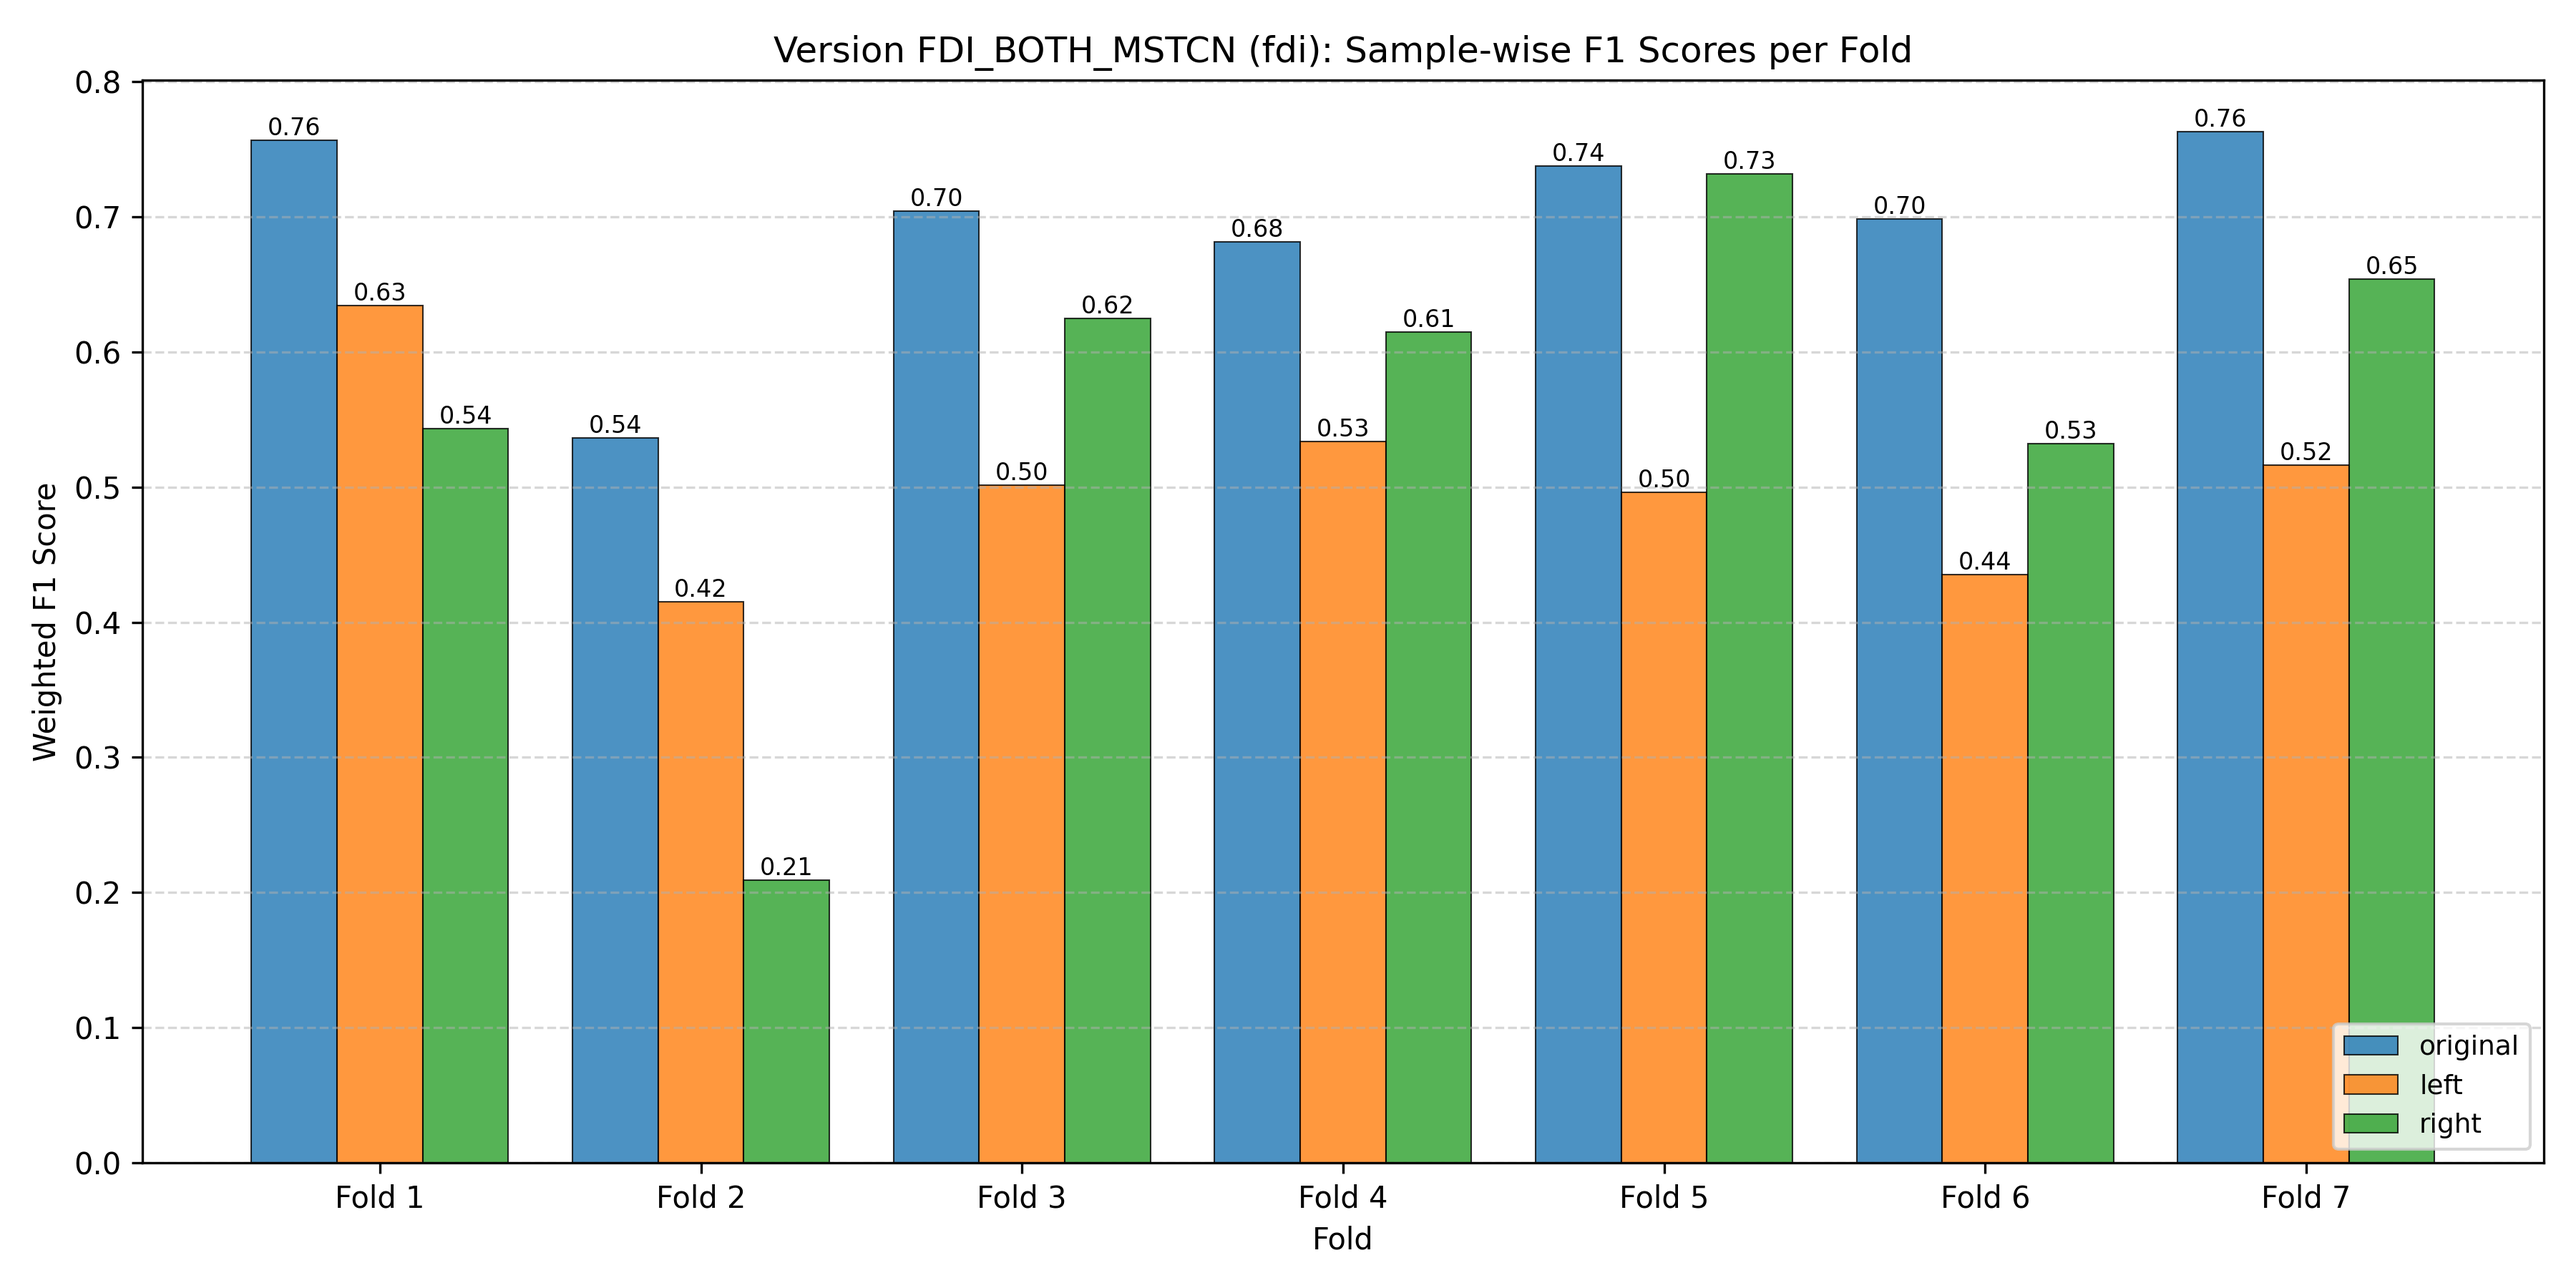
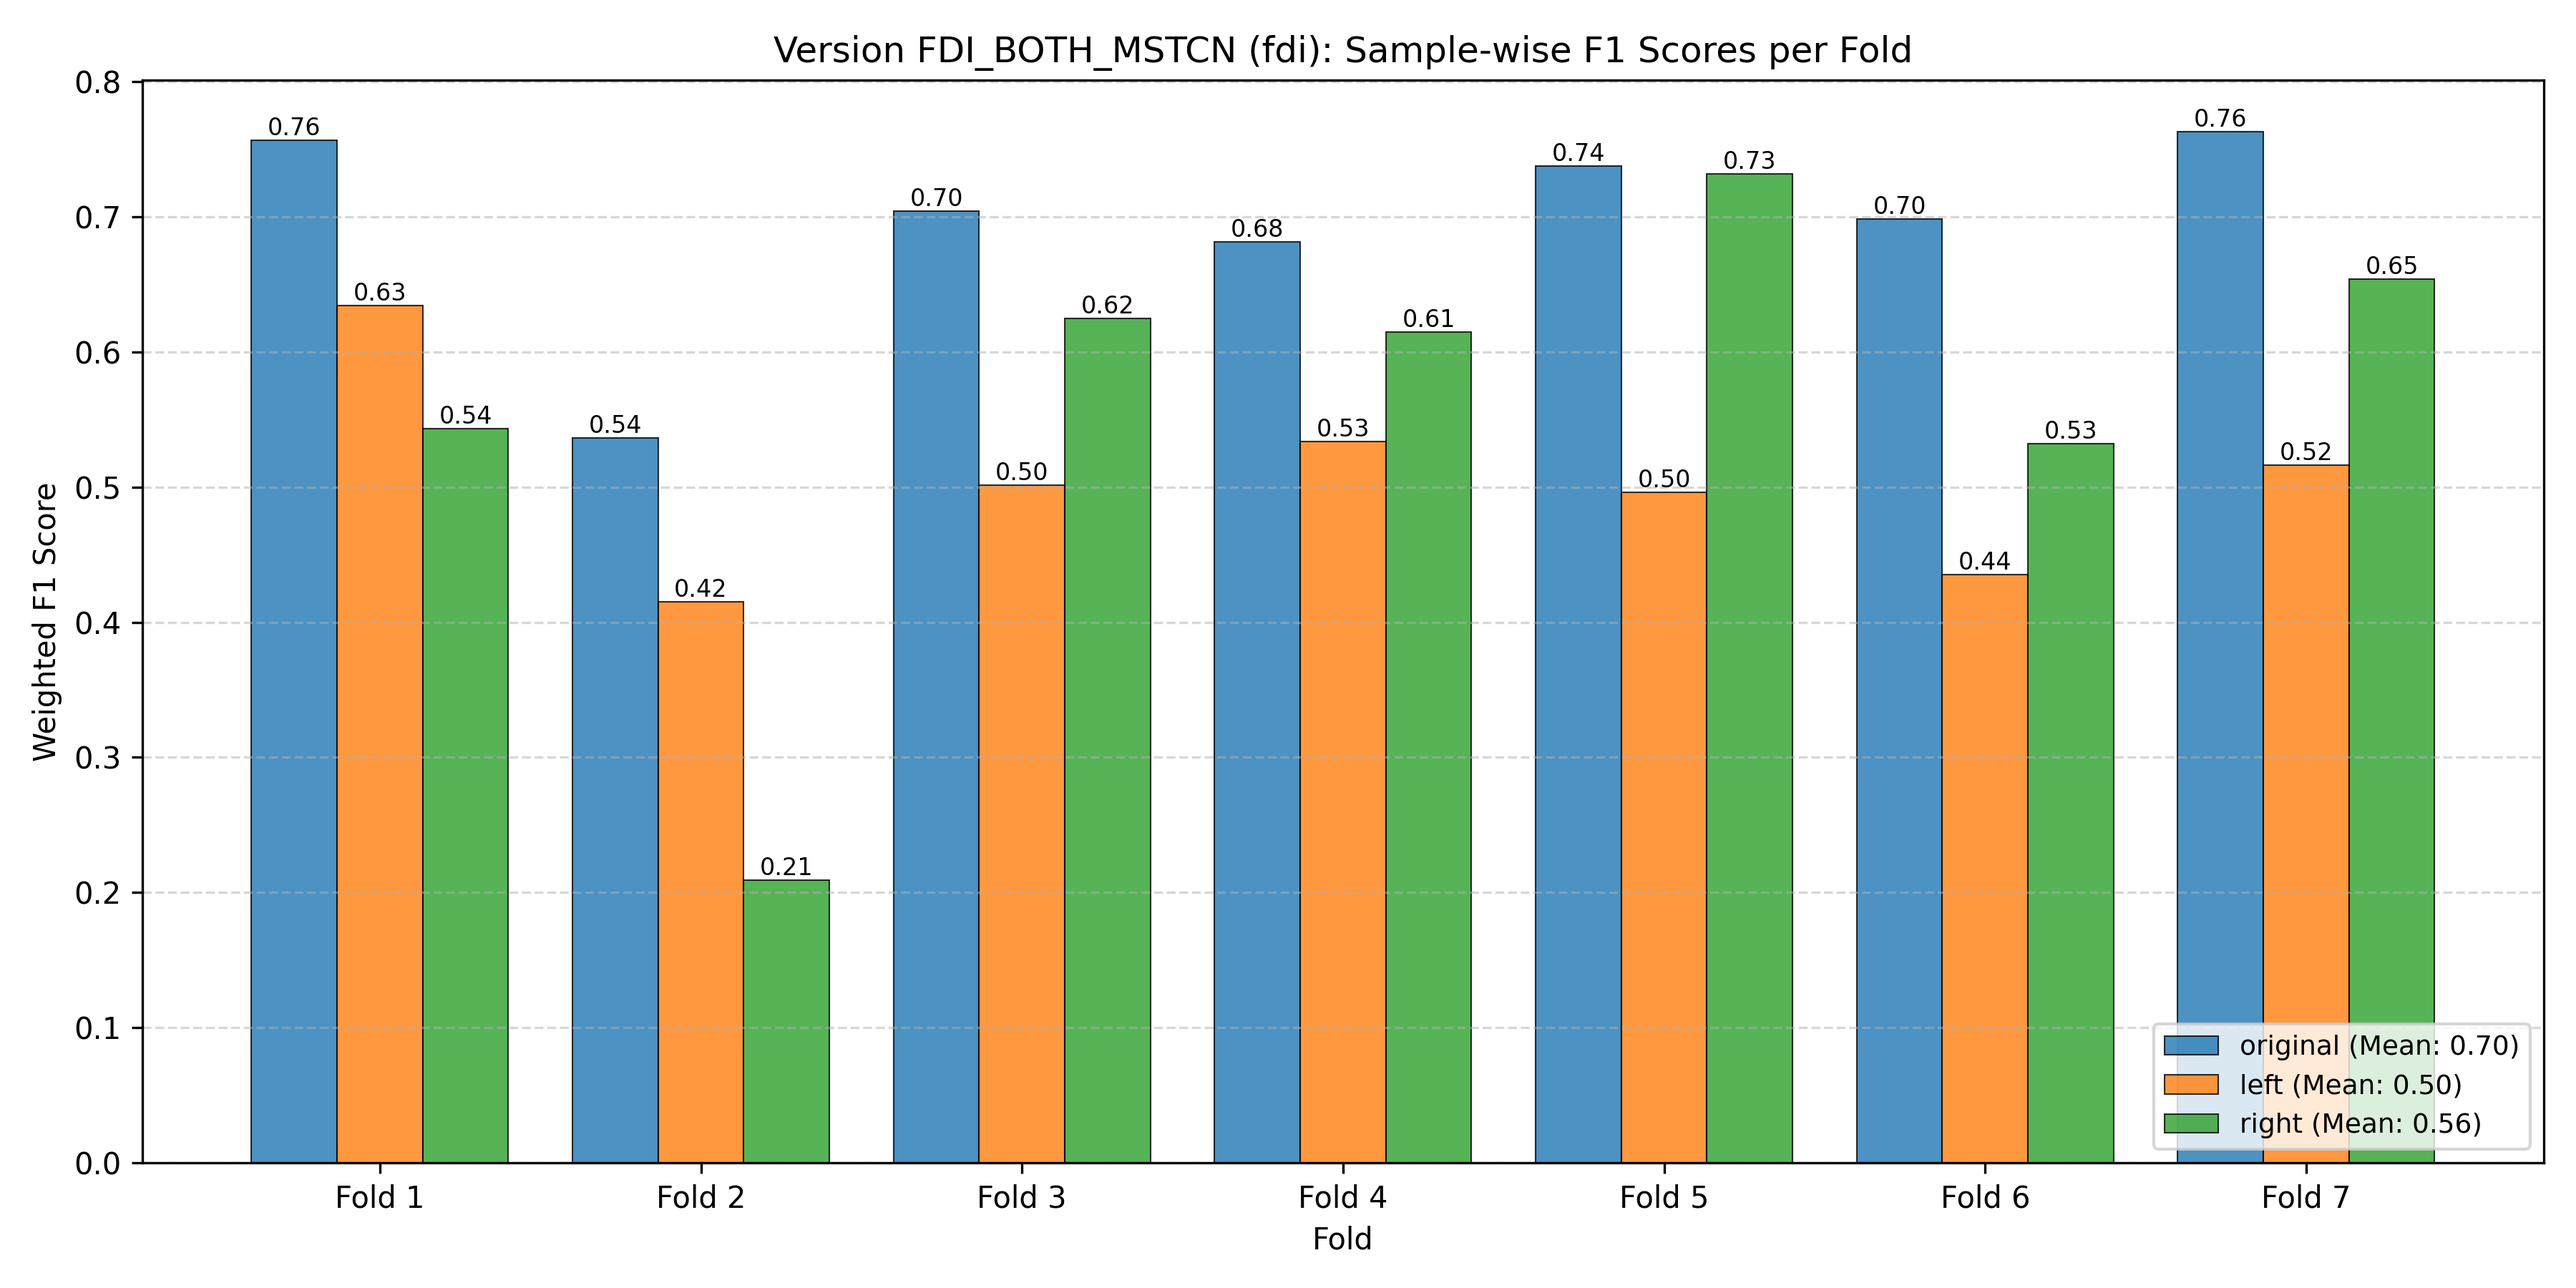
Update

Changed region(s): [[0.84, 0.7778, 0.9644, 0.9022]]

diff --git a/dl_analyze.py b/dl_analyze.py
@@ -6,7 +6,7 @@ IMU Training Result Analysis Script
 -------------------------------------------------------------------------------
 Author      : Joseph Yep
 Email       : yewentai126@gmail.com
-Edited      : 2025-05-05
+Edited      : 2025-05-08
 Description : This script analyzes training results:
               1. Comparative analysis of segment-wise and sample-wise metrics
               2. Support for multiple validation modes (original, mirrored, rotated)
@@ -25,7 +25,10 @@ from seaborn import color_palette
 
 if __name__ == "__main__":
     result_root = "result"
-    versions = ["OREBA_BOTH_MSTCN_1"]  # Uncomment to manually specify versions
+    versions = [
+        "DXI_BOTH_MSTCN",
+        "DXI_BOTH_MSTCN_DATASET_MIRRORING",
+    ]  # Uncomment to manually specify versions
     # versions = [d for d in sorted(os.listdir(result_root)) if os.path.isdir(os.path.join(result_root, d))]
 
     for version in versions:
@@ -182,11 +185,21 @@ if __name__ == "__main__":
             num_folds = len(next(iter(mode_metrics.values()))["sample_wise"])
             folds = np.arange(1, num_folds + 1)
 
+            highest_mean_score = 0  # Initialize variable to track the highest mean score
+
             for i, mode_name in enumerate(mode_names):
                 scores = mode_metrics[mode_name]["sample_wise"]
+                mean_score = np.mean(scores)
+                highest_mean_score = max(highest_mean_score, mean_score)  # Update highest mean score
                 positions = folds + (i - len(mode_names) / 2 + 0.5) * bar_width
                 bars = plt.bar(
-                    positions, scores, bar_width, label=mode_name, edgecolor="black", linewidth=0.5, alpha=0.8
+                    positions,
+                    scores,
+                    bar_width,
+                    label=f"{mode_name} (Mean: {mean_score:.2f})",
+                    edgecolor="black",
+                    linewidth=0.5,
+                    alpha=0.8,
                 )
                 for bar, s in zip(bars, scores):
                     plt.text(
@@ -208,4 +221,8 @@ if __name__ == "__main__":
             plt.savefig(os.path.join(analysis_dir, f"f1_per_fold_{dataset_name}.png"), dpi=300)
             plt.close()
 
+            logger.info(f"Mean Sample-wise F1 Score for {mode_name}: {mean_score:.2f}")
             logger.info(f"Analysis for version {version} ({dataset_name}) completed. Plots saved to {analysis_dir}")
+
+            # Print the highest mean value with 3 digits after the decimal
+            logger.info(f"Highest Mean Sample-wise F1 Score: {highest_mean_score:.3f}")

diff --git a/dl_train.py b/dl_train.py
@@ -6,7 +6,7 @@ MSTCN IMU Training Script (Single and Distributed Combined)
 -------------------------------------------------------------------------------
 Author      : Joseph Yep
 Email       : yewentai126@gmail.com
-Edited      : 2025-05-05
+Edited      : 2025-05-08
 Description : This script trains MSTCN models on IMU data with:
               1. Support for both single-GPU and distributed multi-GPU training
               2. Cross-validation across subject folds
@@ -71,7 +71,7 @@ logger = logging.getLogger(__name__)
 # ----------------------------------------------------------------------------------------------
 # Dataset Configuration
 # ----------------------------------------------------------------------------------------------
-DATASET = "OREBA"
+DATASET = "DXI"
 if DATASET.startswith("DX"):
     NUM_CLASSES = 2
     SAMPLING_FREQ_ORIGINAL = 64
